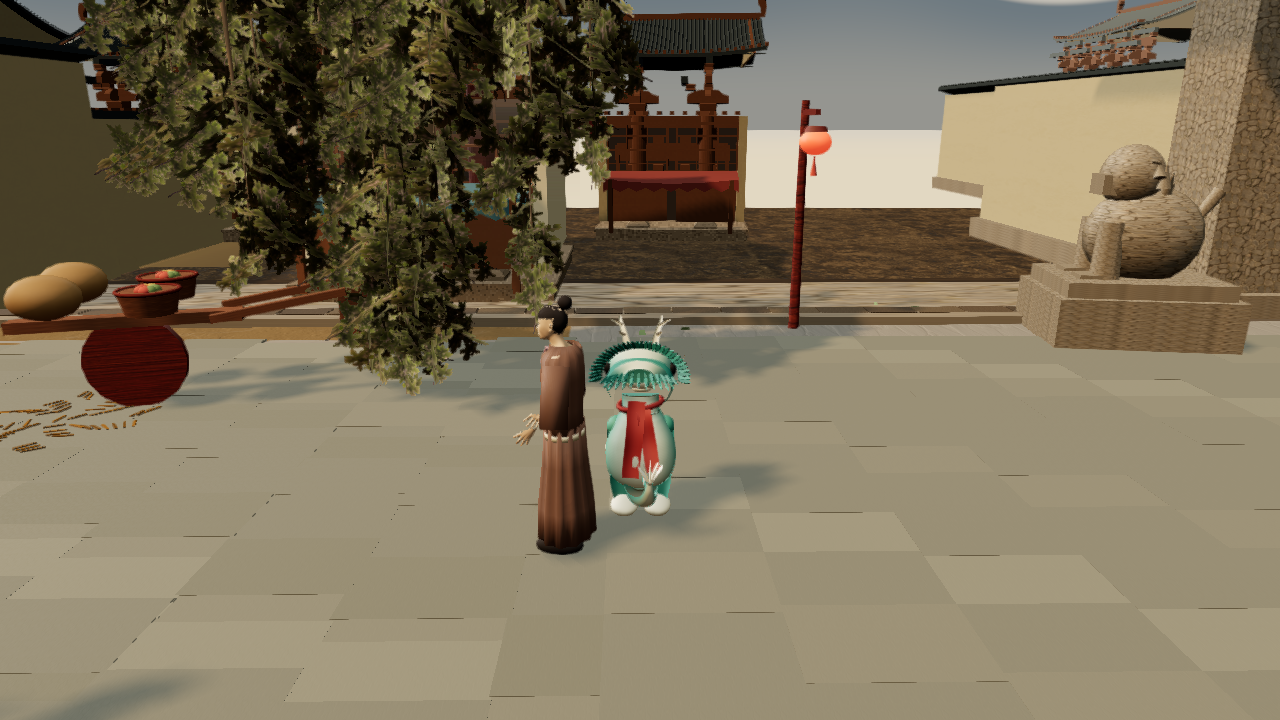
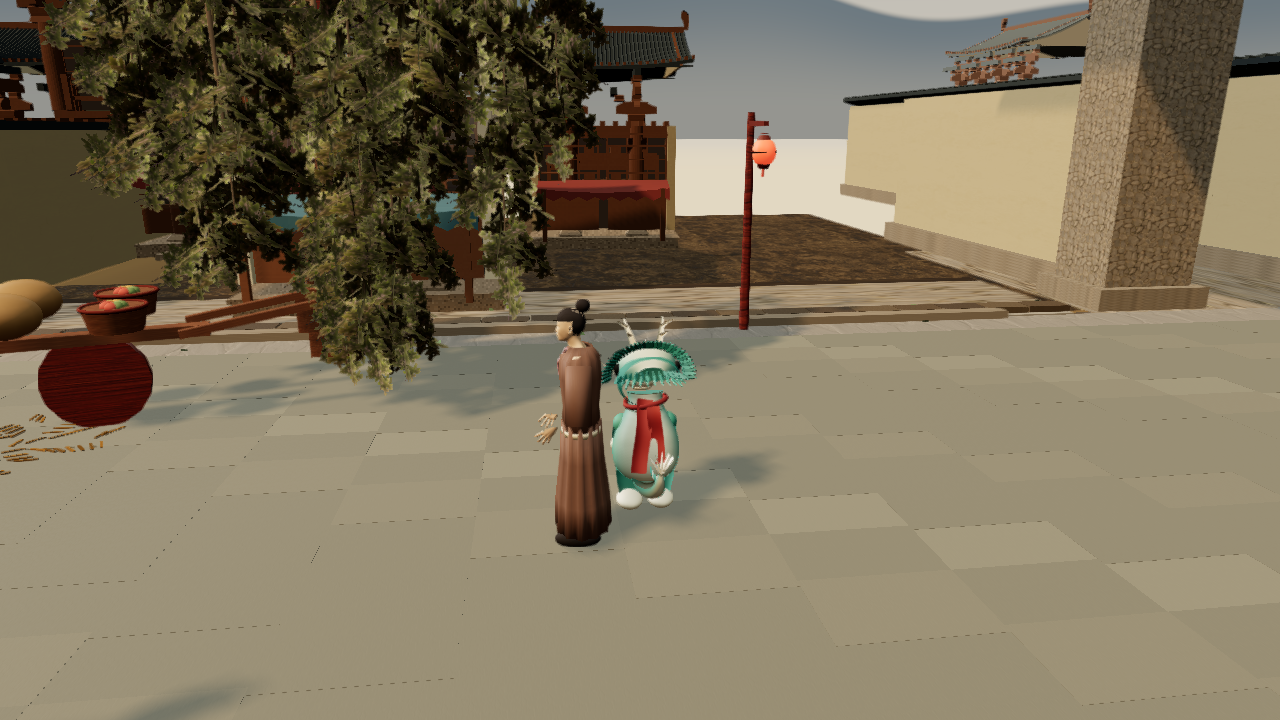
Pave the ward interior and correct the comment that claimed bare ground

diff --git a/src/hero-street.js b/src/hero-street.js
@@ -1152,6 +1152,33 @@
    * 唐长安里坊的空间逻辑本来就是"坊门内十字街、两侧宅邸寺观"，
    * 从街心穿过门洞看到的应当是殿宇，而不是另一排铺面。
    * 只用变换复用同一份 GLB 与共享材质，不增加下载量。 */
+  /* 坊内铺地：把门洞到殿堂台基之间的地面铺满。
+   *
+   * 注意：我原先以为这里是"裸露的 far-ground 裸地"，并用射线与像素采样核对过——
+   * 门洞后的地面颜色 (153,143,116) 与街面 (153,142,116) 几乎一致，
+   * 那片深色其实是**门楼投下的阴影**，不是裸地。前两轮追的是一个不存在的问题。
+   * 这块地坪仍然值得铺：坊墙内侧本来就该有与门洞连续的院内地面，
+   * 而不是依赖门洞铺装（apron）刚好延伸到哪。 */
+  function addWardInteriorPaving() {
+    // 北门在内侧 z=-39.2，殿堂台基前缘约 -45.8；南门在 +41 一侧。
+    // 用一整块覆盖两段之间所有可能露土的区域。
+    for (const seg of [
+      { z0: -46.4, z1: -38.2 },
+      { z0: 38.2, z1: 46.4 },
+    ]) {
+      const len = seg.z1 - seg.z0;
+      const mid = (seg.z0 + seg.z1) / 2;
+      const pad = new THREE.Mesh(
+        new THREE.PlaneGeometry(23.0, len),
+        materials.stone,
+      );
+      pad.rotation.x = -Math.PI / 2;
+      pad.position.set(0, 0.026, mid);
+      pad.receiveShadow = true;
+      scene.add(pad);
+    }
+  }
+
   function addWardHalls(hallRoot) {
     if (!hallRoot) return null;
     const group = new THREE.Group();
@@ -2267,6 +2294,7 @@
     addBackRows(shopRoot, tavernRoot);
     addWardHalls(hallRoot);
     createWardWall(shopRoot, tavernRoot);
+    addWardInteriorPaving();
     // 记录每间铺面的行当与挂幌纵向范围，供验收核对不重复、不出铺面。
     state.streetPlan = entries.map((entry) => {
       const placement = shopPlacement(entry);

diff --git a/docs/REBUILD_PLAN.md b/docs/REBUILD_PLAN.md
@@ -815,6 +815,21 @@
 - 修后台阶正面显示为方正的乱石纹，不再是拉丝。
 - 复审 1280×720 / 844×390 均 passed，3860/3890 calls、约 347/351 万三角形。
 
+### 同轮：一个不存在的缺陷（建筑第三十四轮）
+
+- **本轮几乎没有产出，如实记录**：我花了两轮追"门洞后有裸露的深褐色裸地"。
+  用射线向下打在 z=-41..-46 的九个采样点，命中的是 `street-paving`（y=0.05）
+  与 `street-stone`（y=0.026）——都是铺装，没有裸地。
+  再用像素采样对比：门洞后地面 (153,143,116)，街面 (153,142,116)，**几乎一致**。
+  那片深色是**门楼投下的阴影**，不是材质或铺装缺失。
+- 前一轮"延长门洞铺装"、这一轮"补坊内地坪"都是在修一个不存在的问题。
+  两次修改本身无害（坊墙内侧确实该有连续地坪），但理由都是错的。
+  已修正代码注释，把真实结论写清楚，避免后来者被误导。
+- **教训**：阴影与材质缺陷在截图里很难区分。判断"某处颜色不对"之前，
+  应先做一次射线（确认命中什么材质）或像素对比（确认颜色是否真的异常），
+  而不是凭截图里的一块深色就开始改。
+- 复审 1280×720 / 844×390 均 passed，3862/3892 calls、约 347/351 万三角形。
+
 ## 决策记录
 
 - 构件几何统一以"底面 z=0"为基准，便于按层堆叠与复用。
